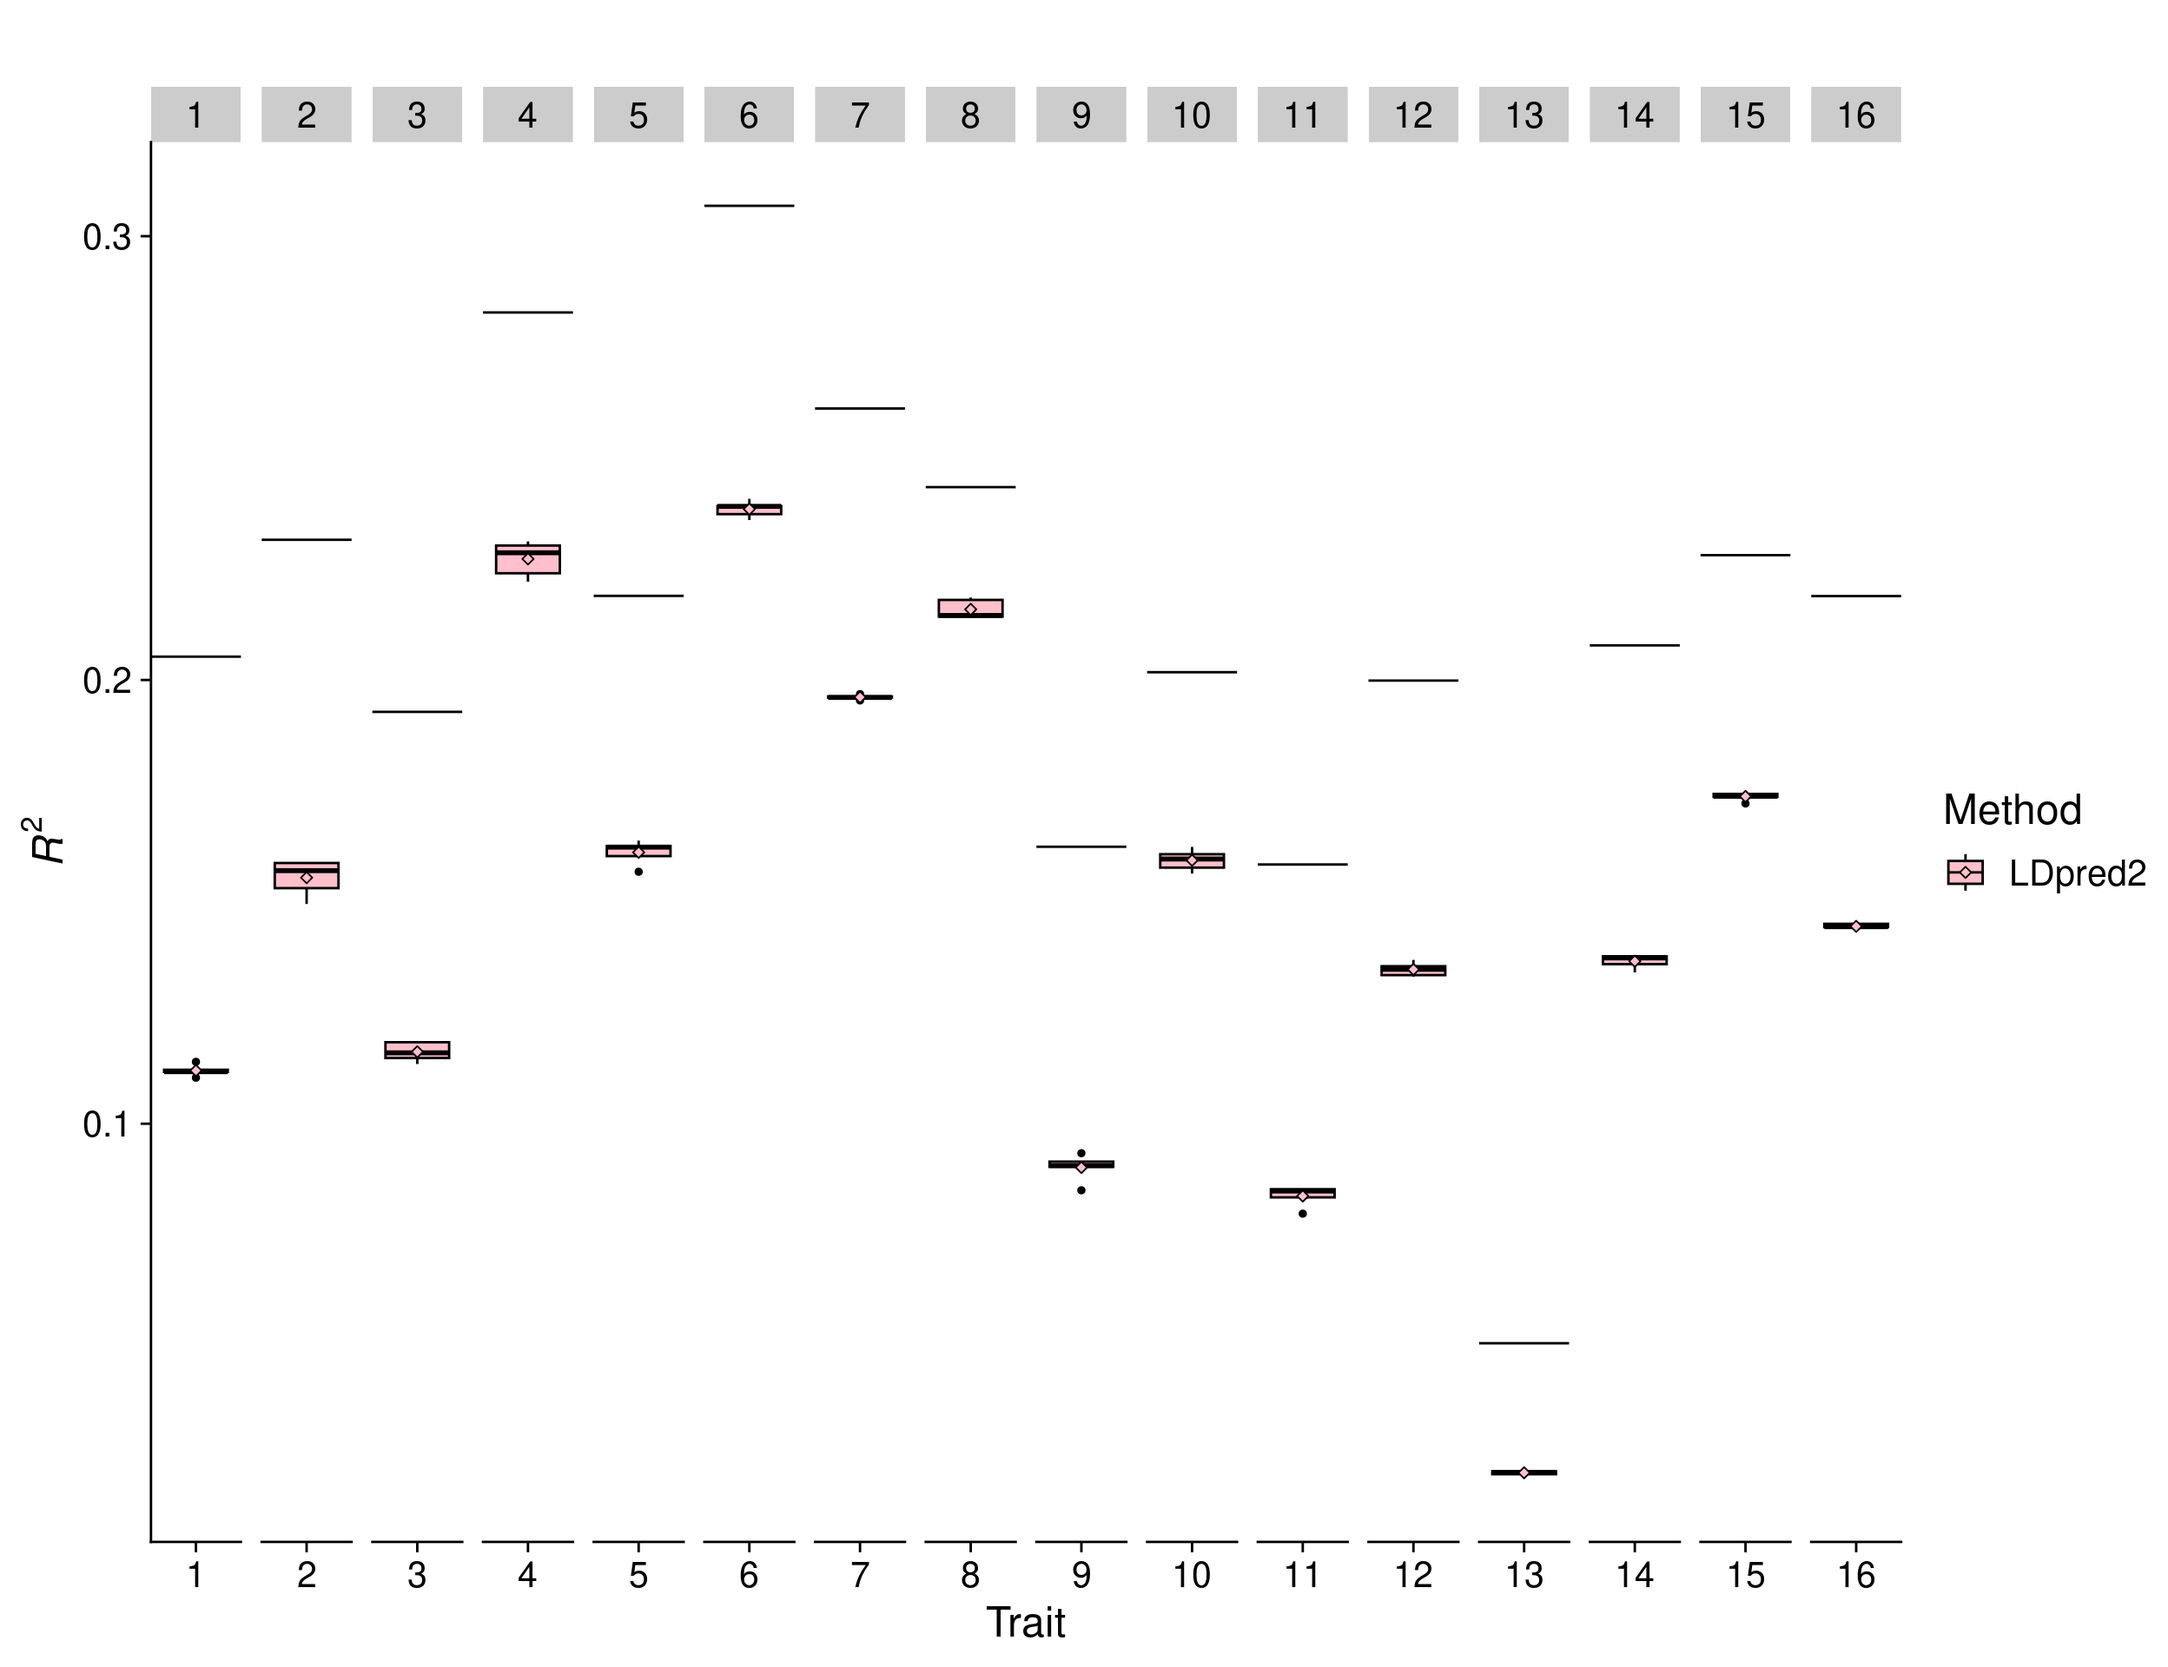
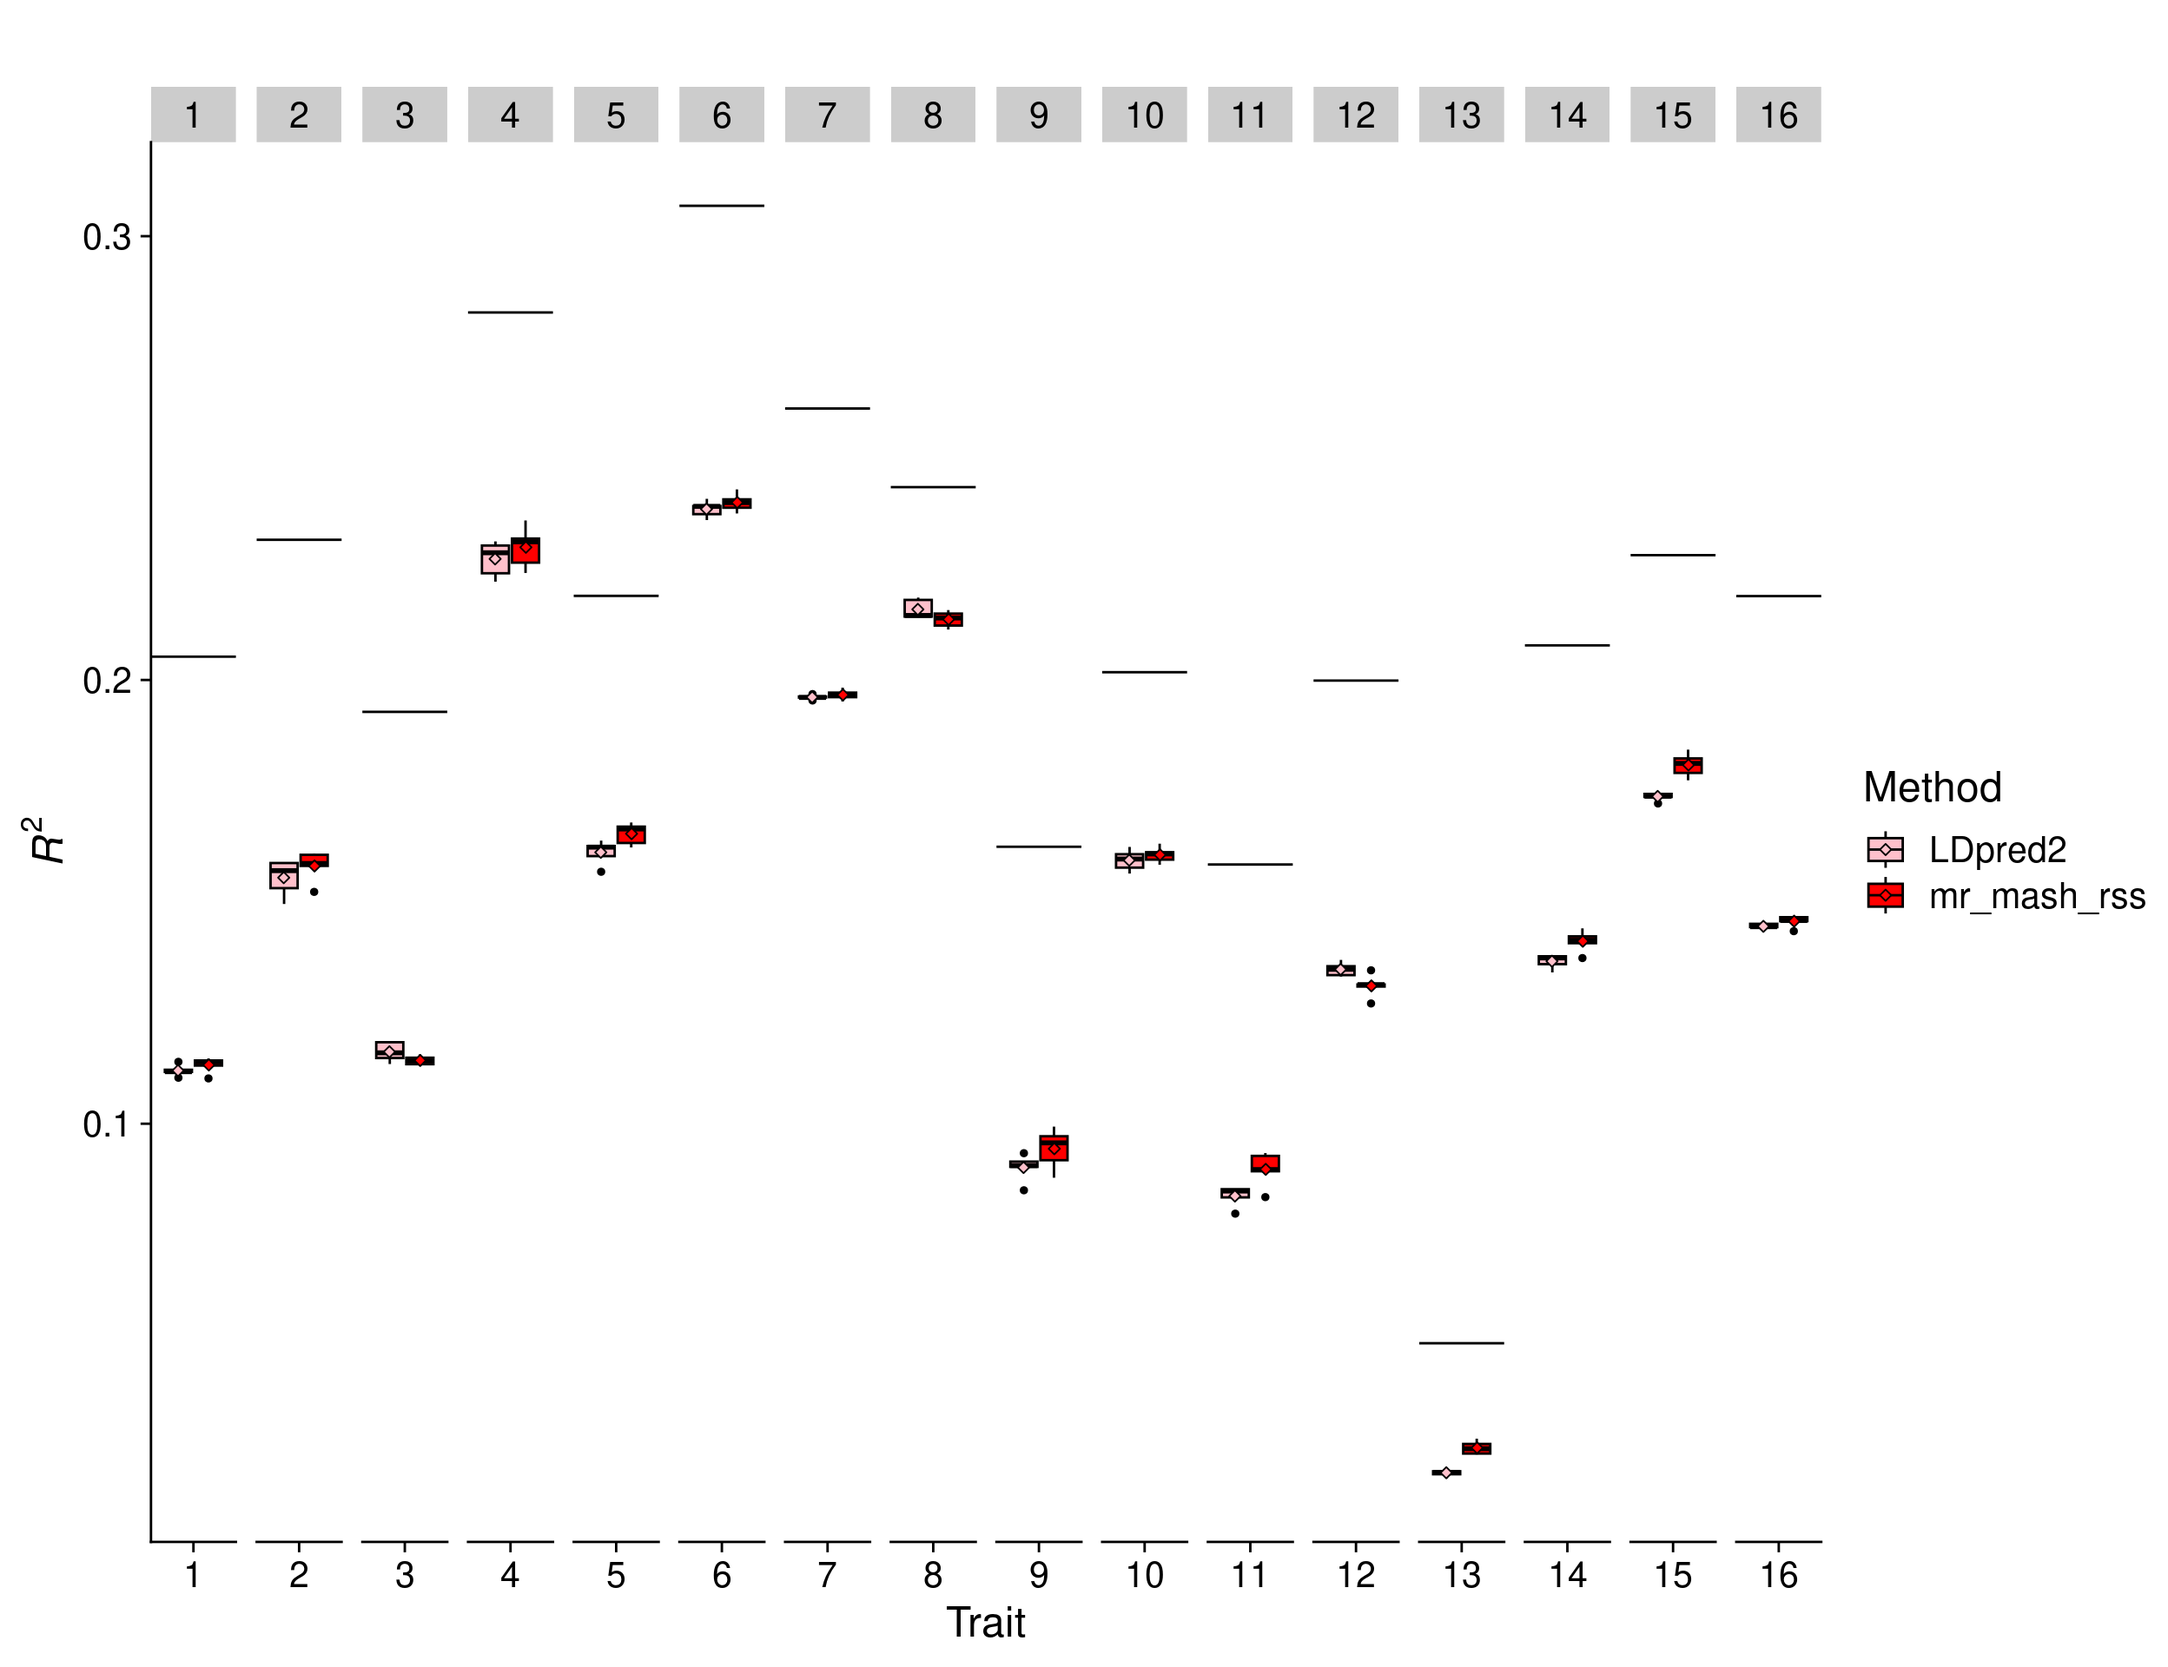
Build site.

diff --git a/docs/ukb_bc_results.html b/docs/ukb_bc_results.html
@@ -11,7 +11,7 @@
 
 <meta name="author" content="Fabio Morgante &amp; Deborah Kunkel" />
 
-<meta name="date" content="2023-10-26" />
+<meta name="date" content="2023-10-30" />
 
 <title>Analysis of blood cell traits in UK Biobank</title>
 
@@ -374,7 +374,7 @@ div.tocify {
 <h1 class="title toc-ignore">Analysis of blood cell traits in UK
 Biobank</h1>
 <h4 class="author">Fabio Morgante &amp; Deborah Kunkel</h4>
-<h4 class="date">October 26, 2023</h4>
+<h4 class="date">October 30, 2023</h4>
 
 </div>
 
@@ -403,7 +403,7 @@ class="glyphicon glyphicon-ok text-success" aria-hidden="true"></span>
 <div class="tab-content">
 <div id="summary" class="tab-pane fade in active">
 <p>
-<strong>Last updated:</strong> 2023-10-26
+<strong>Last updated:</strong> 2023-10-30
 </p>
 <p>
 <strong>Checks:</strong> <span
@@ -534,15 +534,15 @@ project makes it easier to run your code on other machines.</p>
 <div class="panel panel-default">
 <div class="panel-heading">
 <p class="panel-title">
-<a data-toggle="collapse" data-parent="#workflowr-checks" href="#strongRepositoryversionstrongahrefhttpsgithubcommorgantelabmrmashrssanalysistreefebf669ca5f7d522297abf9c8dec9f75f7ee300atargetblankfebf669a">
+<a data-toggle="collapse" data-parent="#workflowr-checks" href="#strongRepositoryversionstrongahrefhttpsgithubcommorgantelabmrmashrssanalysistreefeefb657d4f1f846a47a3c76a7120914001cedc2targetblankfeefb65a">
 <span class="glyphicon glyphicon-ok text-success"
 aria-hidden="true"></span> <strong>Repository version:</strong>
-<a href="https://github.com/morgantelab/mr_mash_rss_analysis/tree/febf669ca5f7d522297abf9c8dec9f75f7ee300a" target="_blank">febf669</a>
+<a href="https://github.com/morgantelab/mr_mash_rss_analysis/tree/feefb657d4f1f846a47a3c76a7120914001cedc2" target="_blank">feefb65</a>
 </a>
 </p>
 </div>
 <div
[2 lines of base64/hex data omitted]
 class="panel-collapse collapse">
 <div class="panel-body">
 <p>
@@ -552,7 +552,7 @@ reproducibility.
 </p>
 <p>
 The results in this page were generated with repository version
-<a href="https://github.com/morgantelab/mr_mash_rss_analysis/tree/febf669ca5f7d522297abf9c8dec9f75f7ee300a" target="_blank">febf669</a>.
+<a href="https://github.com/morgantelab/mr_mash_rss_analysis/tree/feefb657d4f1f846a47a3c76a7120914001cedc2" target="_blank">feefb65</a>.
 See the <em>Past versions</em> tab to see a history of the changes made
 to the R Markdown and HTML files.
 </p>
@@ -582,17 +582,12 @@ Untracked files:
     Untracked:  code/merge_sumstats_all_chr_ukb.R
     Untracked:  code/split_effects_by_chr_imp_ukb.R
     Untracked:  scripts/11_run_fit_mrmashrss_by_chr_V_all_chr_bc_ukb.sbatch
-    Untracked:  scripts/11_run_fit_mrmashrss_sparse_LD_V_all_chr_by_chr_bc_ukb.sbatch
     Untracked:  scripts/11_run_fit_mrmashrss_sparse_LD_mvsusie_paper_prior_by_chr_bc_ukb.sbatch
     Untracked:  scripts/11_run_fit_mrmashrss_test_by_chr_V_all_chr_bc_ukb.sbatch
-    Untracked:  scripts/12_run_compute_pred_accuracy_mrmashrss_sparse_LD_V_all_chr_bc_ukb.sbatch
     Untracked:  scripts/12_run_compute_pred_accuracy_mrmashrss_sparse_LD_mvsusie_paper_prior_bc_ukb.sbatch
     Untracked:  scripts/3_run_compute_sumstats_by_chr_and_fold_test_bc_ukb.sbatch
     Untracked:  scripts/run_adjust_LD_test.sbatch
     Untracked:  scripts/run_fit_kriging_rss_by_chr_and_trait_bc_ukb.sbatch
-
-Unstaged changes:
-    Modified:   ukb_sim_snakemake_submitter.sh
 
 </code></pre>
 <p>
@@ -638,6 +633,40 @@ Message
 </tr>
 </thead>
 <tbody>
+<tr>
+<td>
+Rmd
+</td>
+<td>
+<a href="https://github.com/morgantelab/mr_mash_rss_analysis/blob/feefb657d4f1f846a47a3c76a7120914001cedc2/analysis/ukb_bc_results.Rmd" target="_blank">feefb65</a>
+</td>
+<td>
+fmorgante
+</td>
+<td>
+2023-10-30
+</td>
+<td>
+Add mr.mash.rss results
+</td>
+</tr>
+<tr>
+<td>
+html
+</td>
+<td>
+<a href="https://rawcdn.githack.com/morgantelab/mr_mash_rss_analysis/7da29c7ad49795d31e3d9e1fe0228c5541c98cb9/docs/ukb_bc_results.html" target="_blank">7da29c7</a>
+</td>
+<td>
+fmorgante
+</td>
+<td>
+2023-10-26
+</td>
+<td>
+Build site.
+</td>
+</tr>
 <tr>
 <td>
 Rmd
@@ -706,12 +735,32 @@ prefix &lt;- &quot;output/prediction_accuracy/ukb_bc&quot;</code></pre>
 <p>The goal of this analysis is to benchmark the newly developed
 <em>mr.mash.rss</em> (aka <em>mr.mash</em> with summary data) against
 already existing methods in the task of predicting phenotypes from
-genotypes using only summary data. Here we describe the analysis of 16
-blood cell traits in UK Biobank.</p>
+genotypes using only summary data. After performing several simulations,
+we analyzed analysis 16 blood cell traits in UK Biobank.</p>
 </div>
 <div id="description-of-the-analysis" class="section level2">
 <h2>Description of the analysis</h2>
-<p>Two different methods were fitted:</p>
+<p>Following the <a
+href="https://www.biorxiv.org/content/10.1101/2023.04.14.536893v1">mvSuSiE
+paper</a>, we selected 16 blood cell traits from the total available in
+the UK Biobank haematology data collection and after the filtering
+steps, we were left with 244,049 samples.</p>
+<p>A 5-fold cross validation scheme was employed, whereby the samples
+were randomly divided in 5 disjoint sets. At each iteration, 4 sets were
+used as training set and 1 set was used as test set.</p>
+<p>Summary statistics were computed in the training set by first
+regressing out the effect of sex, age at recruitment, age <span
+class="math inline">\(\times\)</span> age, assessment centre, and
+genotype measurement batch, and the top 10 genotype PCs using a linear
+model. Then, we ran a GWAS using a simple linear regression on the
+quantile normalized residuals from the previous step.</p>
+<p>For the majority of the analyses, we used a use a set of 1,054,330
+HapMap3 variants. Only for the computation of the data-driven covariance
+matrices for <em>mr.mash.rss</em> we used a larger sets of variants as
+described in the <a
+href="https://www.biorxiv.org/content/10.1101/2023.04.14.536893v1">mvSuSiE
+paper</a>.</p>
+<p>Two different methods were fitted to the summary statistics:</p>
 <ul>
 <li><p><a
 href="https://academic.oup.com/bioinformatics/article/36/22-23/5424/6039173">LDpred2</a>
@@ -734,9 +783,11 @@ sample covariance using the individual-level data. NB this is a
 multivariate method.</p></li>
 </ul>
 <p>Prediction accuracy was evaluated as the <span
-class="math inline">\(R^2\)</span> of the regression of true phenotypes
-on the predicted phenotypes. This metric as the attractive property that
-its upper bound is <span class="math inline">\(h_g^2\)</span>.</p>
+class="math inline">\(R^2\)</span> of the regression of (quantile
+normalized) true phenotypes on the predicted phenotypes in the test set.
+This metric as the attractive property that its upper bound is <span
+class="math inline">\(h_g^2\)</span>. Here we report the results for
+each fold.</p>
 </div>
 <div id="results" class="section level2">
 <h2>Results</h2>
@@ -748,12 +799,10 @@ for(i in 1:5){
   }
   
   if(i&gt;1){
-    dat_mrmash &lt;- rbind(dat_mrmash, rep(as.numeric(NA), 16))
-    #dat_mrmash &lt;- rbind(dat_mrmash, readRDS(paste0(prefix, &quot;_mr_mash_rss_sparse_LD_pred_acc_&quot;, i, &quot;.rds&quot;))$r2)
+    dat_mrmash &lt;- rbind(dat_mrmash, readRDS(paste0(prefix, &quot;_mr_mash_rss_sparse_LD_V_all_chr_pred_acc_&quot;, i, &quot;.rds&quot;))$r2)
     dat_ldpred2 &lt;- rbind(dat_ldpred2, readRDS(paste0(prefix, &quot;_ldpred2_auto_pred_acc_&quot;, i, &quot;.rds&quot;))$r2)
   } else {
-    dat_mrmash &lt;- rep(as.numeric(NA), 16)
-    #dat_mrmash &lt;- readRDS(paste0(prefix, &quot;_mr_mash_rss_sparse_LD_pred_acc_&quot;, i, &quot;.rds&quot;))$r2
+    dat_mrmash &lt;- readRDS(paste0(prefix, &quot;_mr_mash_rss_sparse_LD_V_all_chr_pred_acc_&quot;, i, &quot;.rds&quot;))$r2
     dat_ldpred2 &lt;- readRDS(paste0(prefix, &quot;_ldpred2_auto_pred_acc_&quot;, i, &quot;.rds&quot;))$r2
   }
 }
@@ -793,9 +842,44 @@ p_methods_shared &lt;- ggplot(res, aes(x = trait, y = r2, fill = method)) +
   theme_cowplot(font_size = 18)
 
 print(p_methods_shared)</code></pre>
-<pre><code>Warning: Removed 80 rows containing non-finite values (`stat_boxplot()`).</code></pre>
-<pre><code>Warning: Removed 80 rows containing non-finite values (`stat_summary()`).</code></pre>
 <p><img src="figure/ukb_bc_results.Rmd/results_accuracy-1.png" width="1248" style="display: block; margin: auto;" /></p>
+<p>
+<button type="button" class="btn btn-default btn-xs btn-workflowr btn-workflowr-fig" data-toggle="collapse" data-target="#fig-results_accuracy-1">
+Past versions of results_accuracy-1.png
+</button>
+</p>
+<div id="fig-results_accuracy-1" class="collapse">
+<div class="table-responsive">
+<table class="table table-condensed table-hover">
+<thead>
+<tr>
+<th>
+Version
+</th>
+<th>
+Author
+</th>
+<th>
+Date
+</th>
+</tr>
+</thead>
+<tbody>
+<tr>
+<td>
+<a href="https://github.com/morgantelab/mr_mash_rss_analysis/blob/7da29c7ad49795d31e3d9e1fe0228c5541c98cb9/docs/figure/ukb_bc_results.Rmd/results_accuracy-1.png" target="_blank">7da29c7</a>
+</td>
+<td>
+fmorgante
+</td>
+<td>
+2023-10-26
+</td>
+</tr>
+</tbody>
+</table>
+</div>
+</div>
 <br>
 <p>
 <button type="button" class="btn btn-default btn-workflowr btn-workflowr-sessioninfo" data-toggle="collapse" data-target="#workflowr-sessioninfo" style="display: block;">
